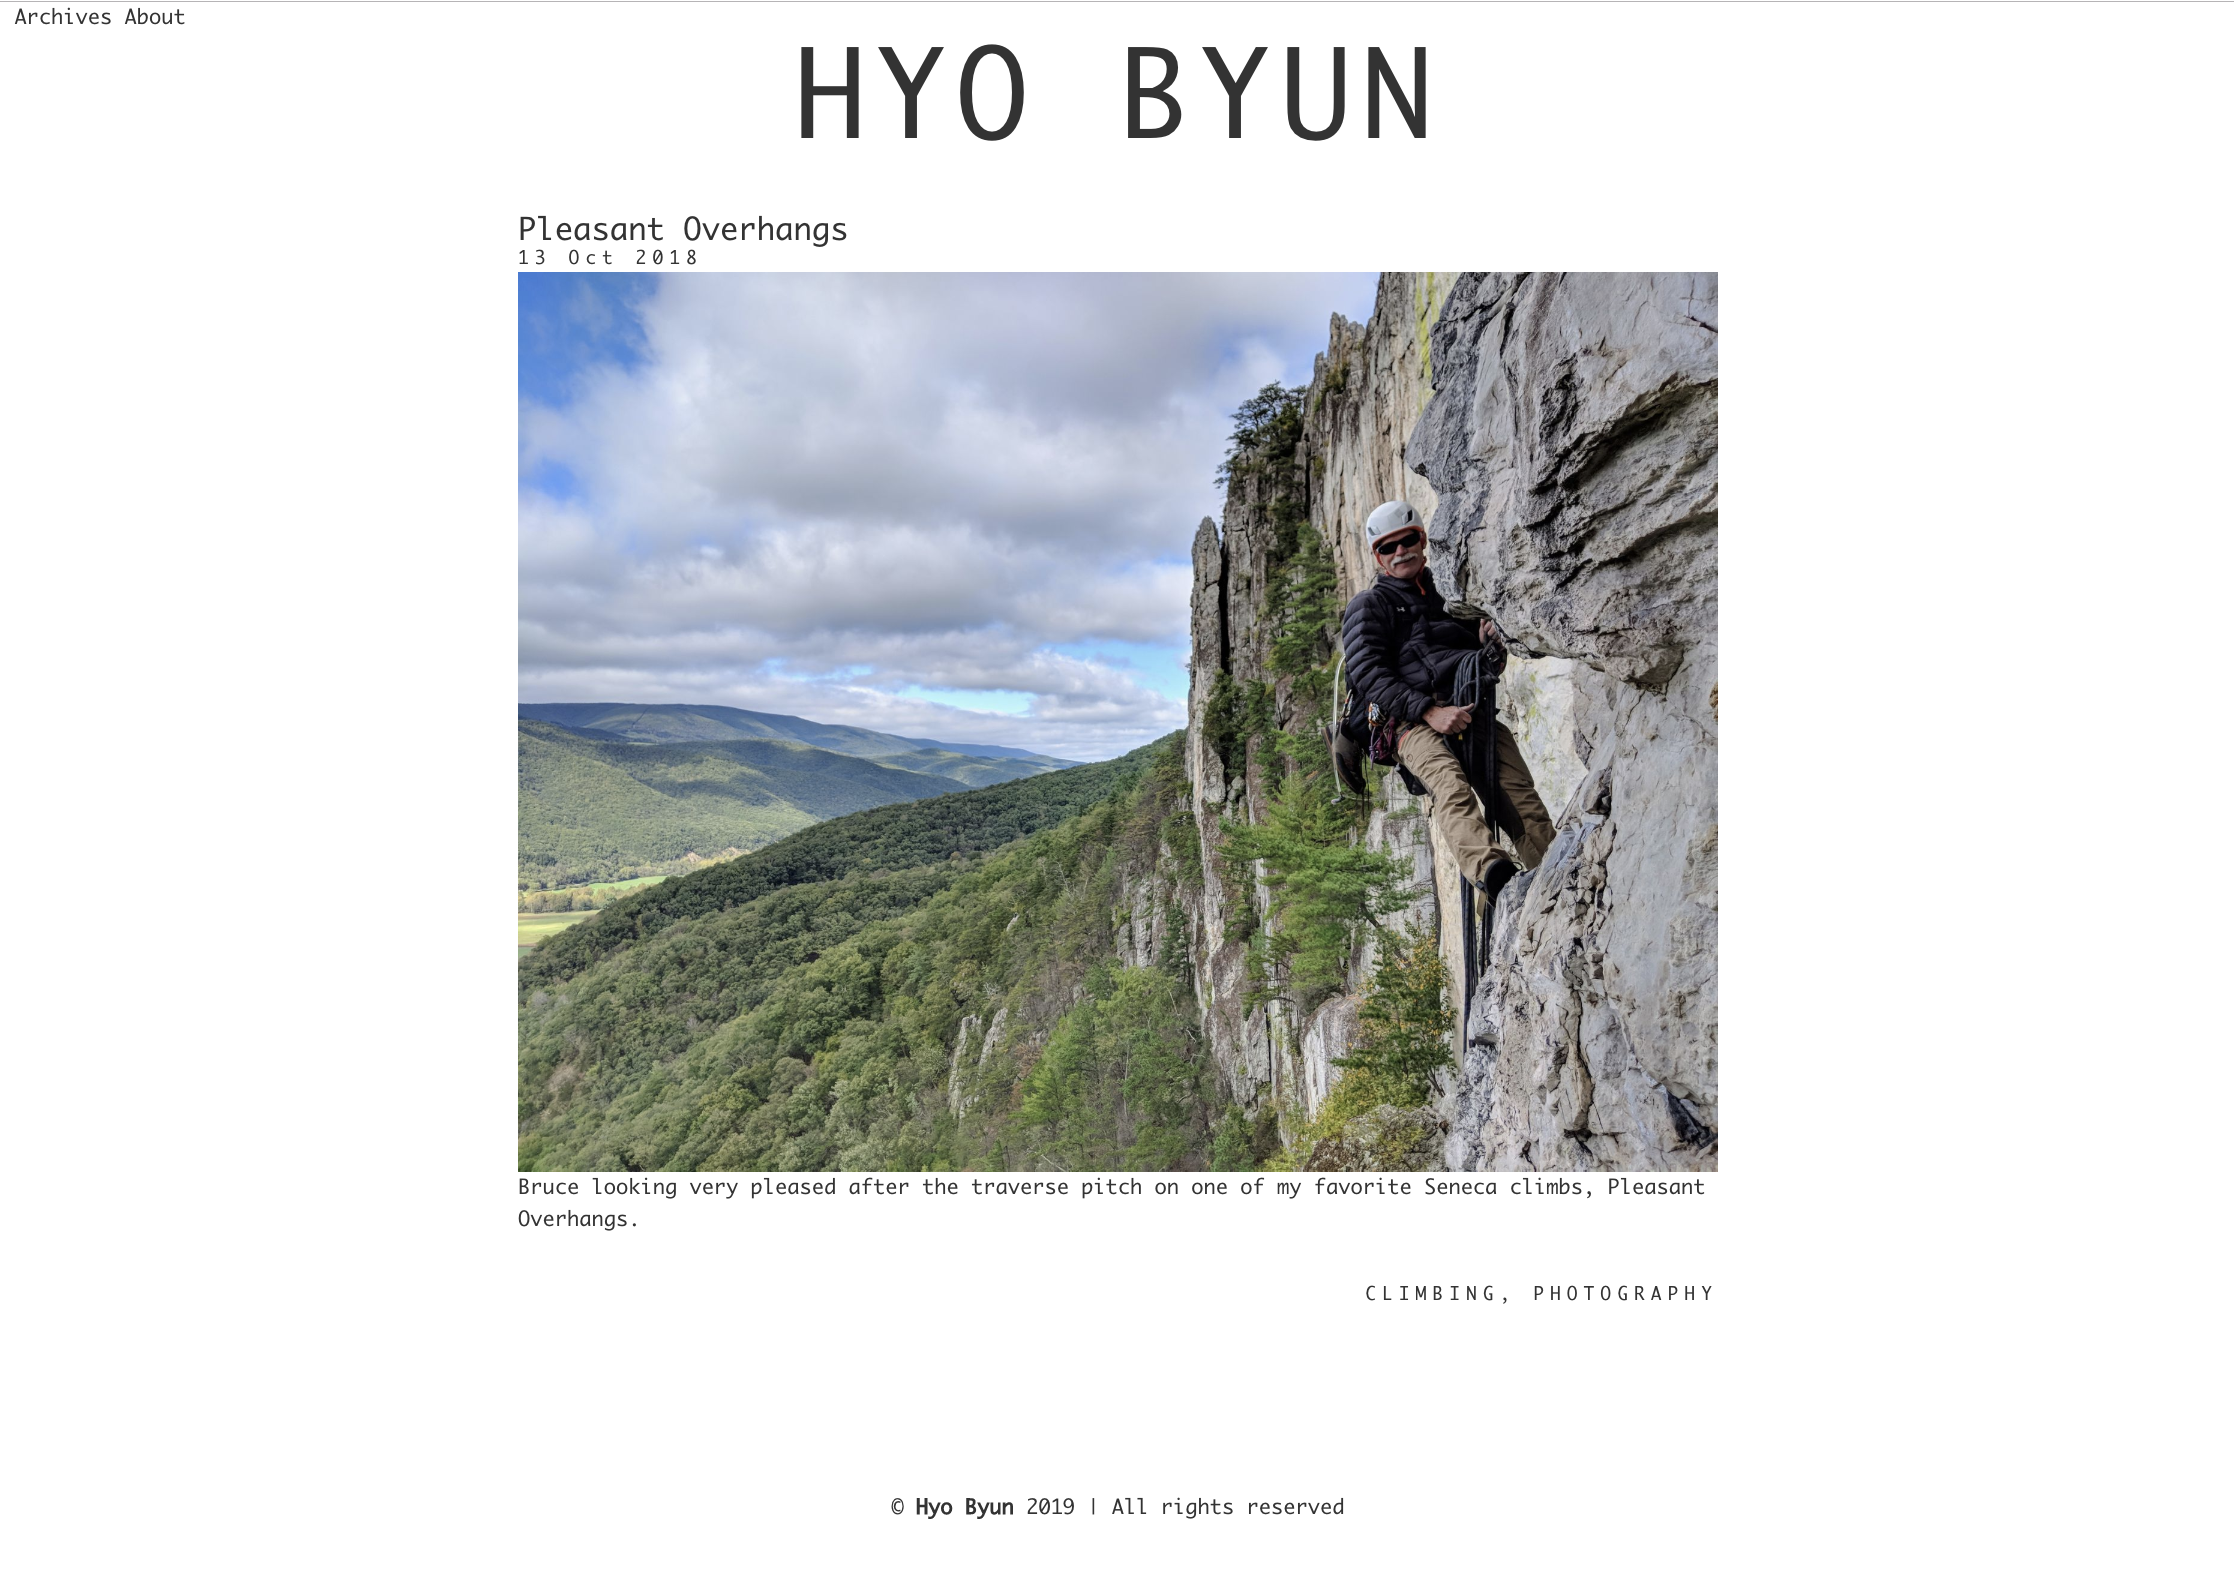
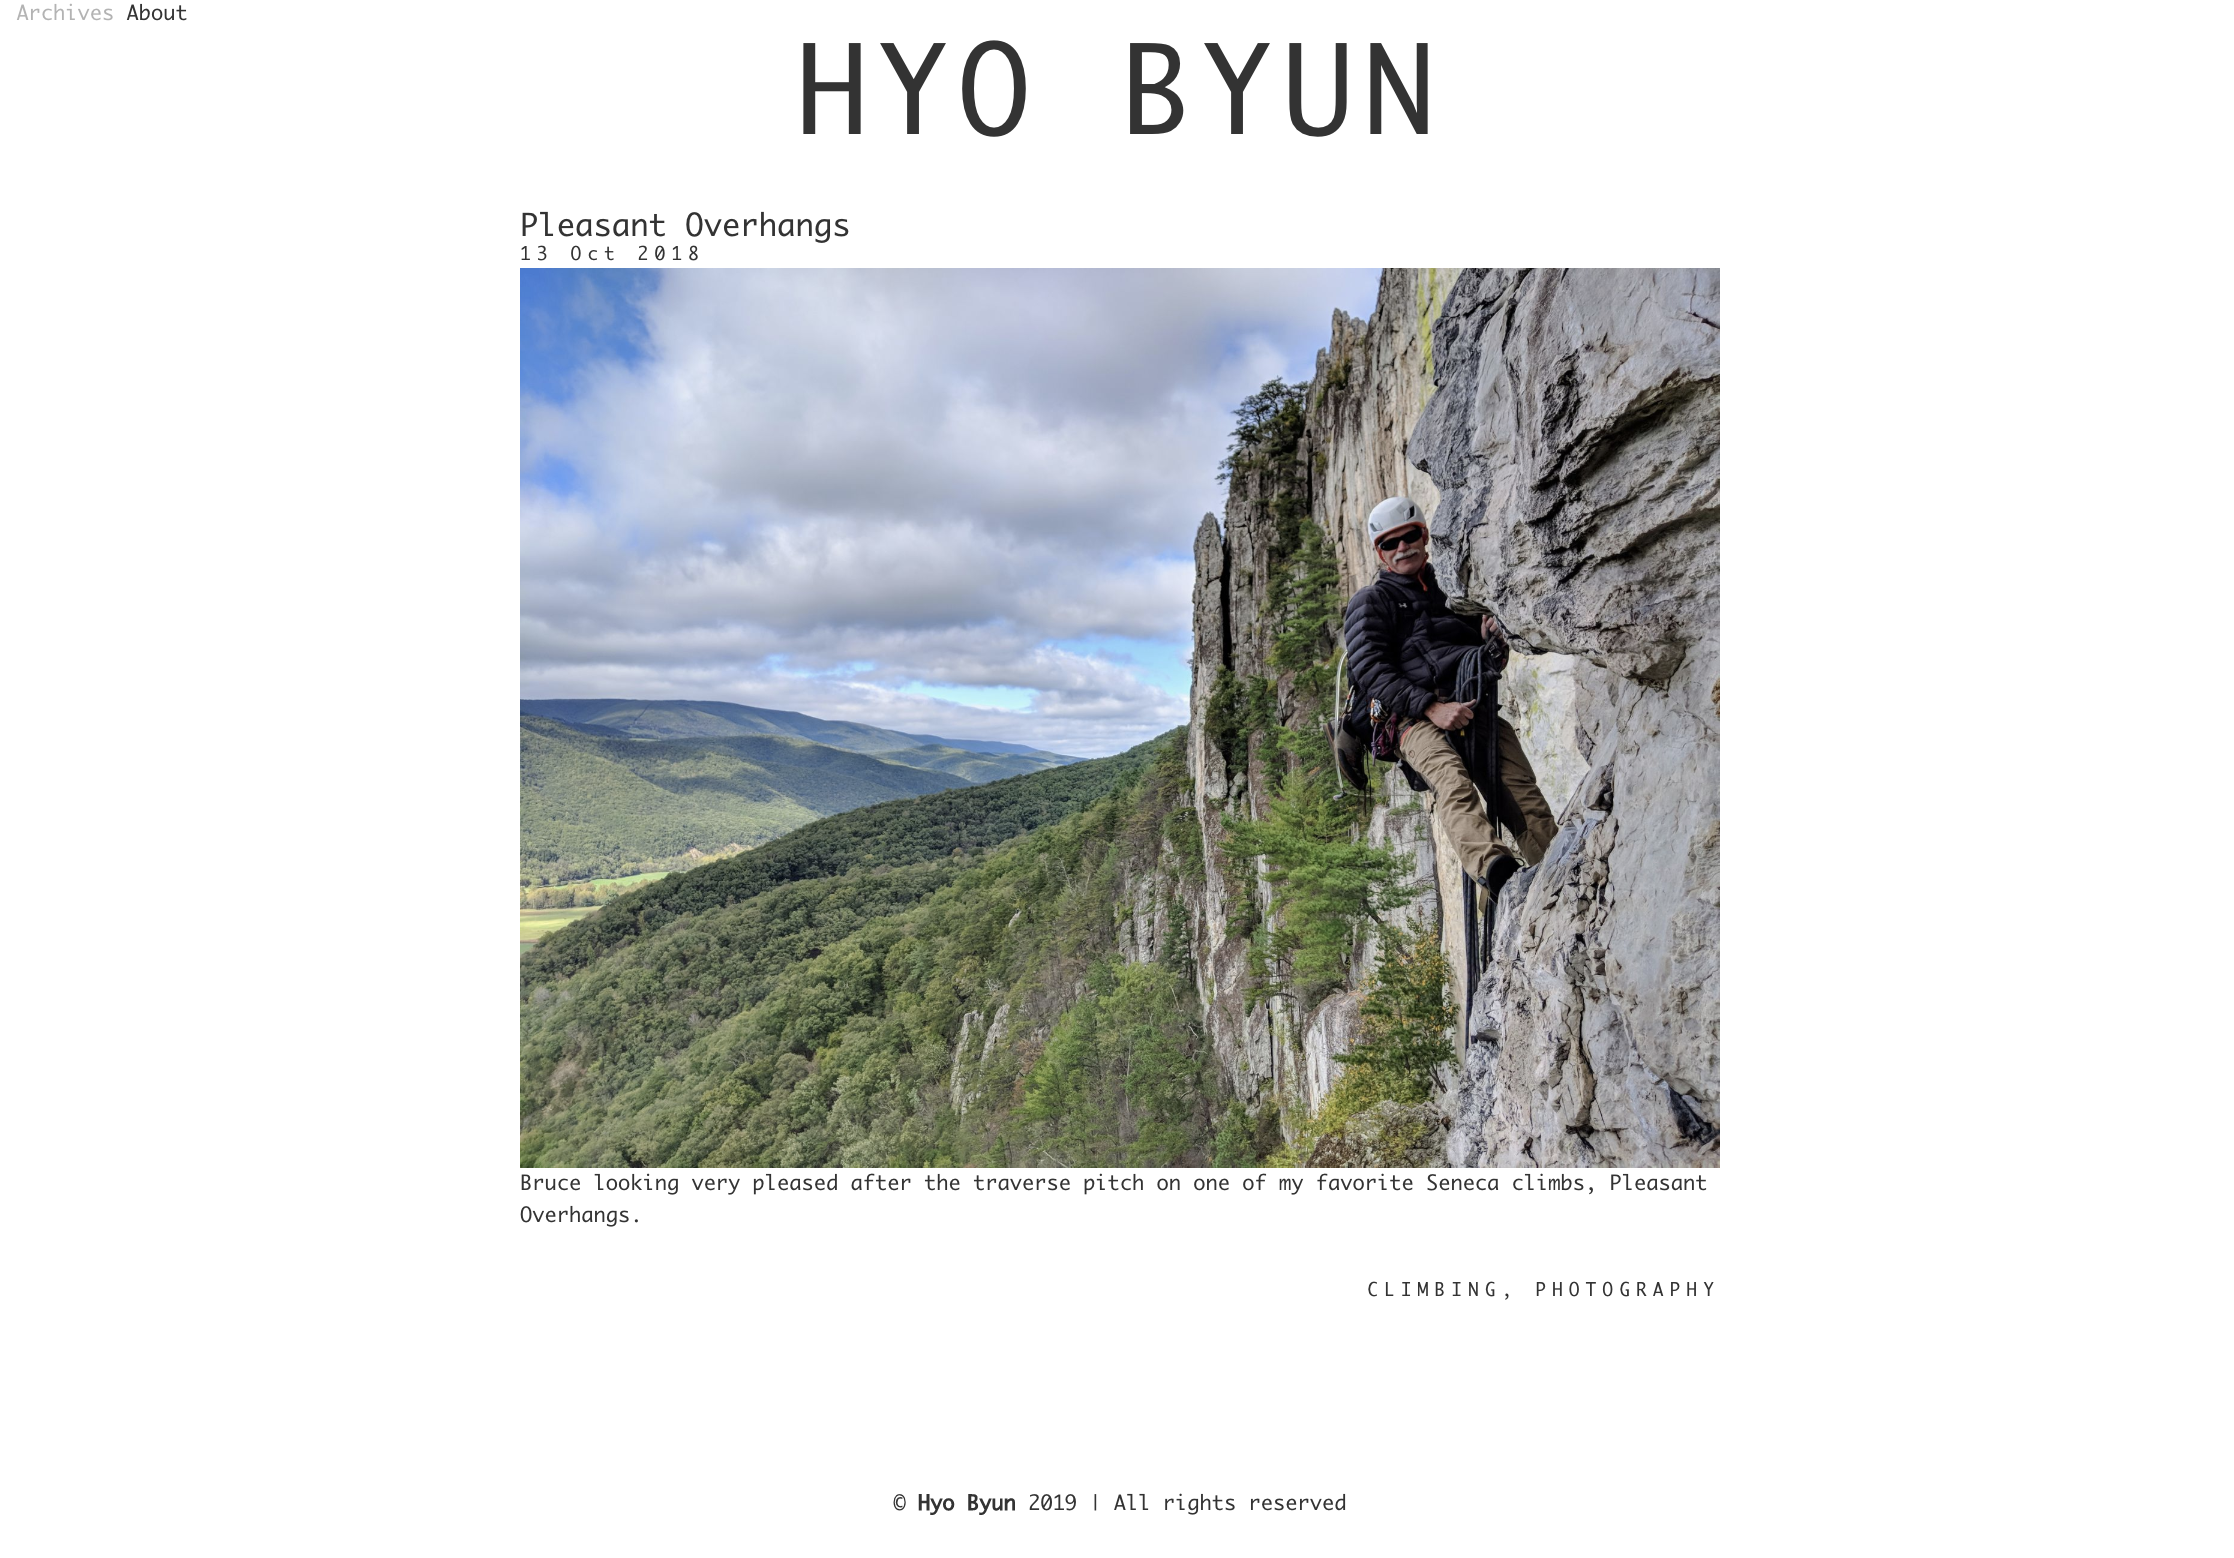
Updated screenshot and readme

diff --git a/README.md b/README.md
@@ -1,5 +1,5 @@
 # hyo-ghost-theme
-Theme for my personal blog. I was going to keep it for myself, but I figured sharing is caring.
+Minimal theme for my personal blog. I was going to keep it for myself, but I figured sharing is caring.
 ![Screenshot of a post](/screenshot.png?raw=true "Screenshot of a post")
 
 # Instructions
